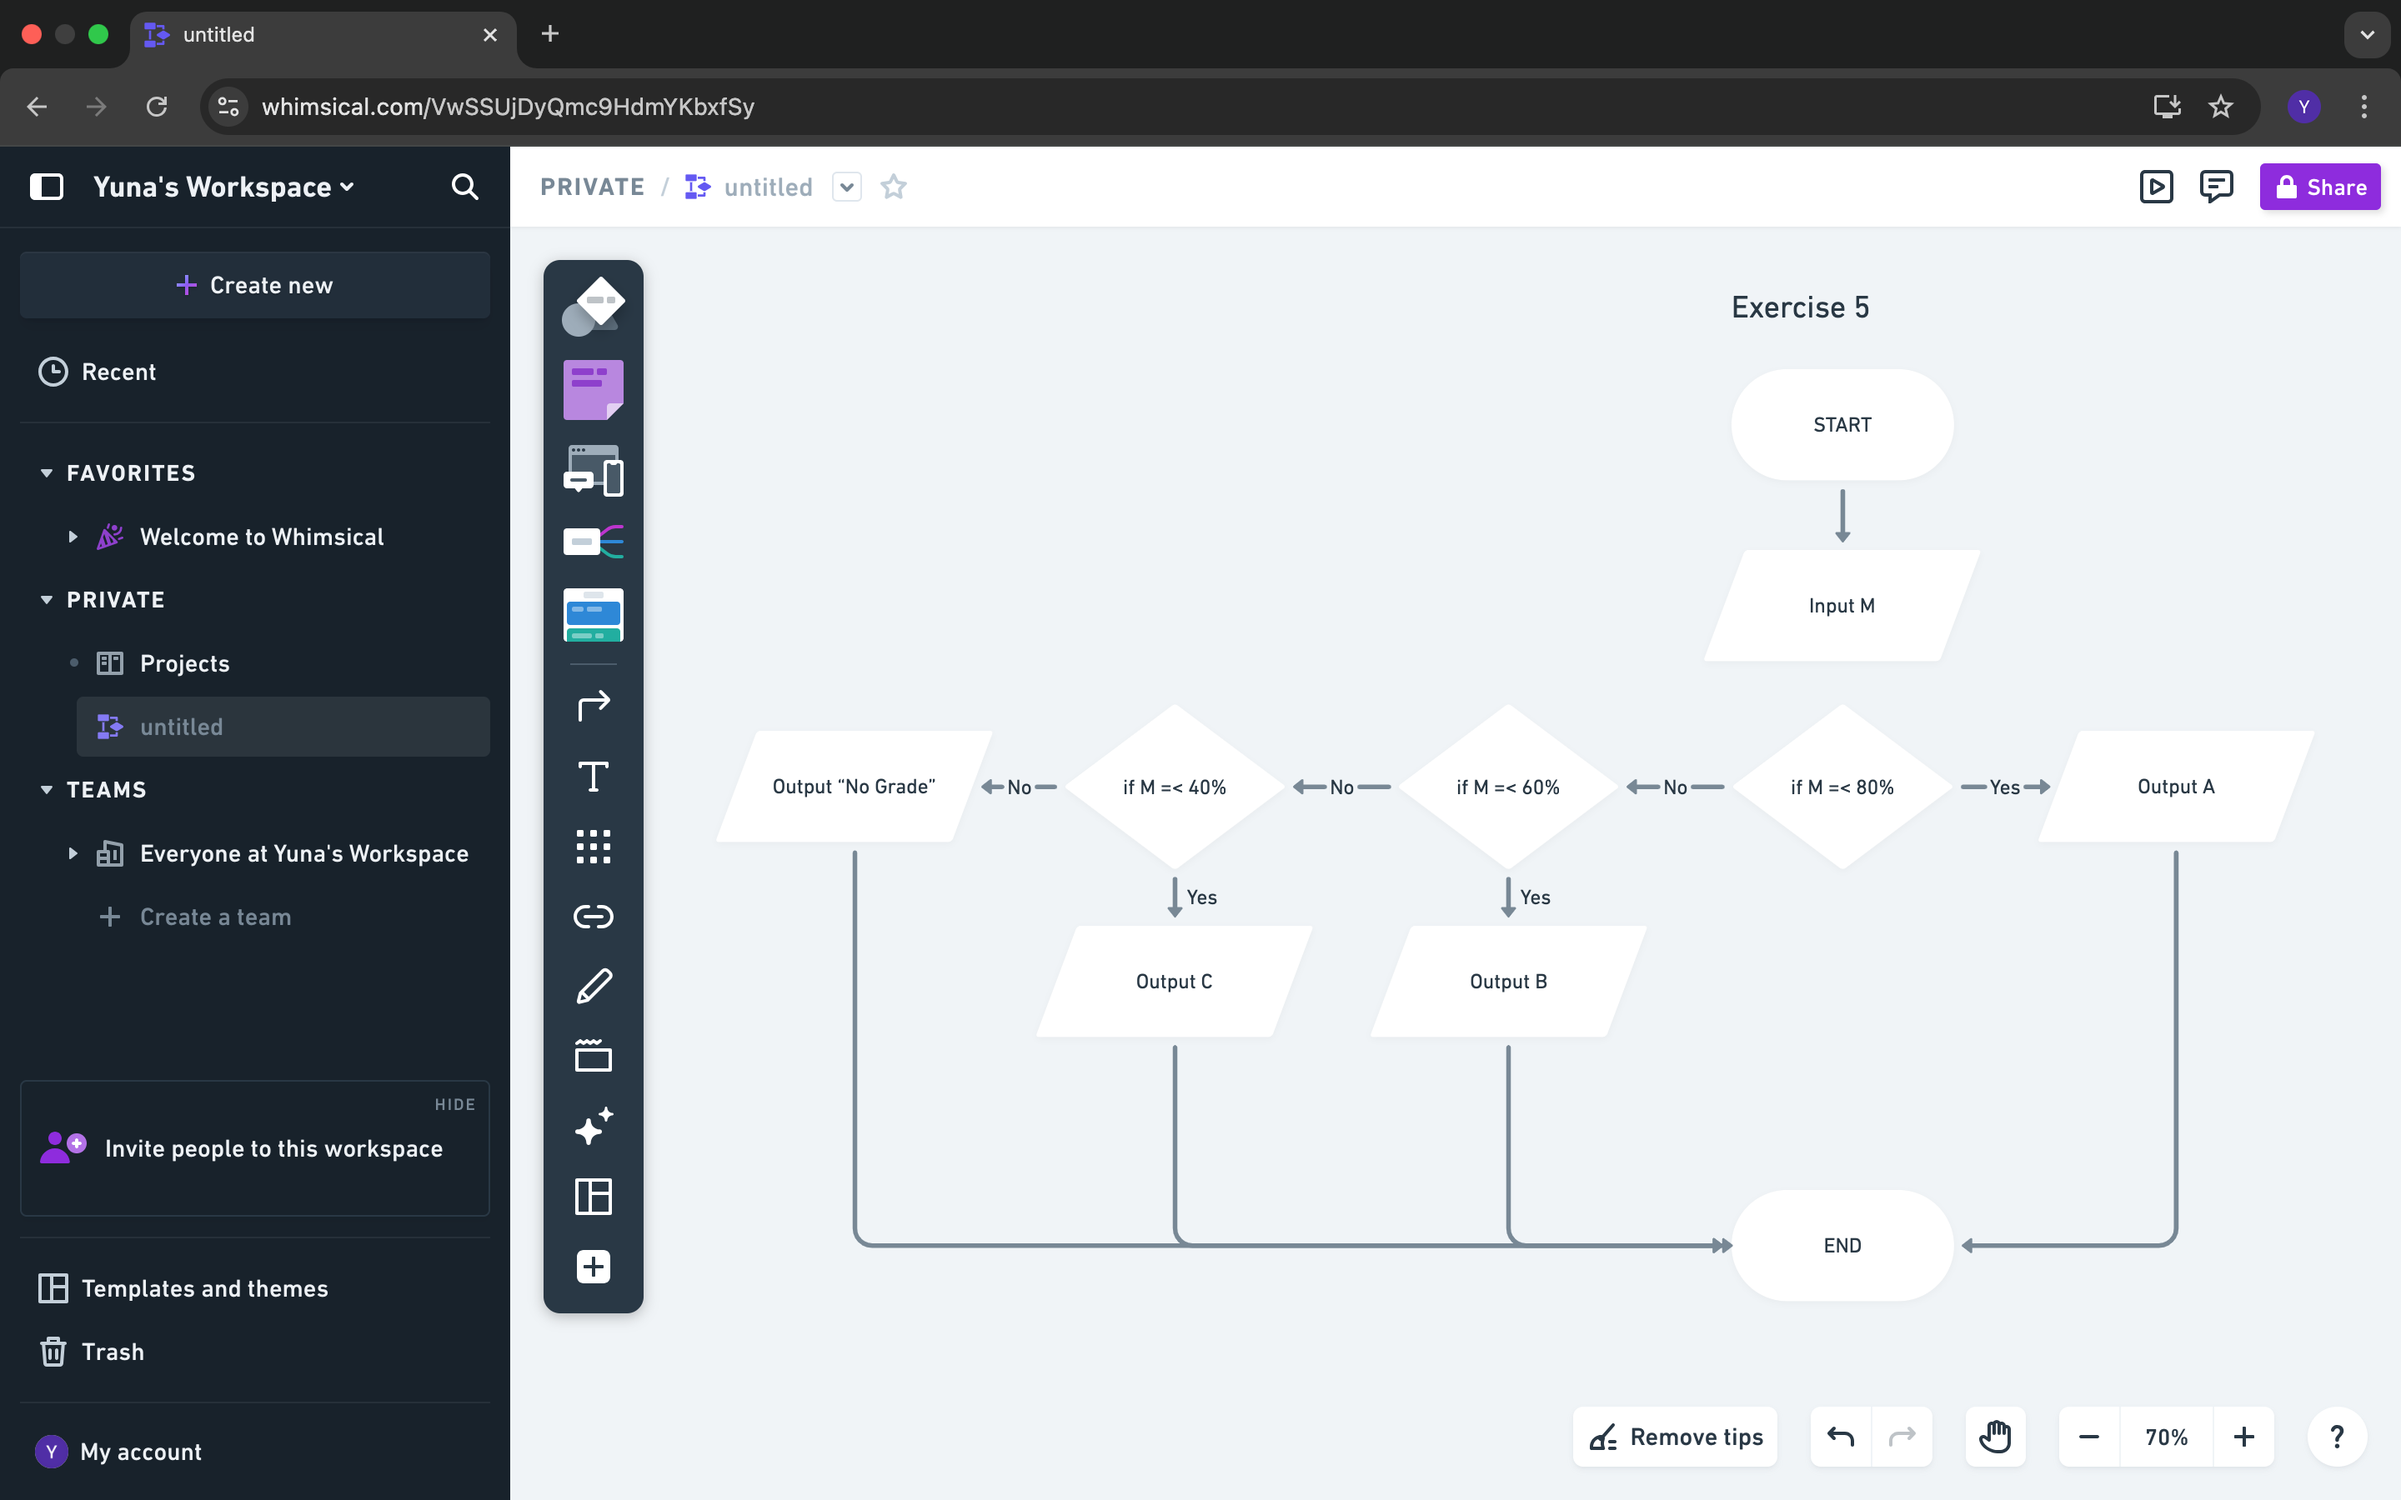
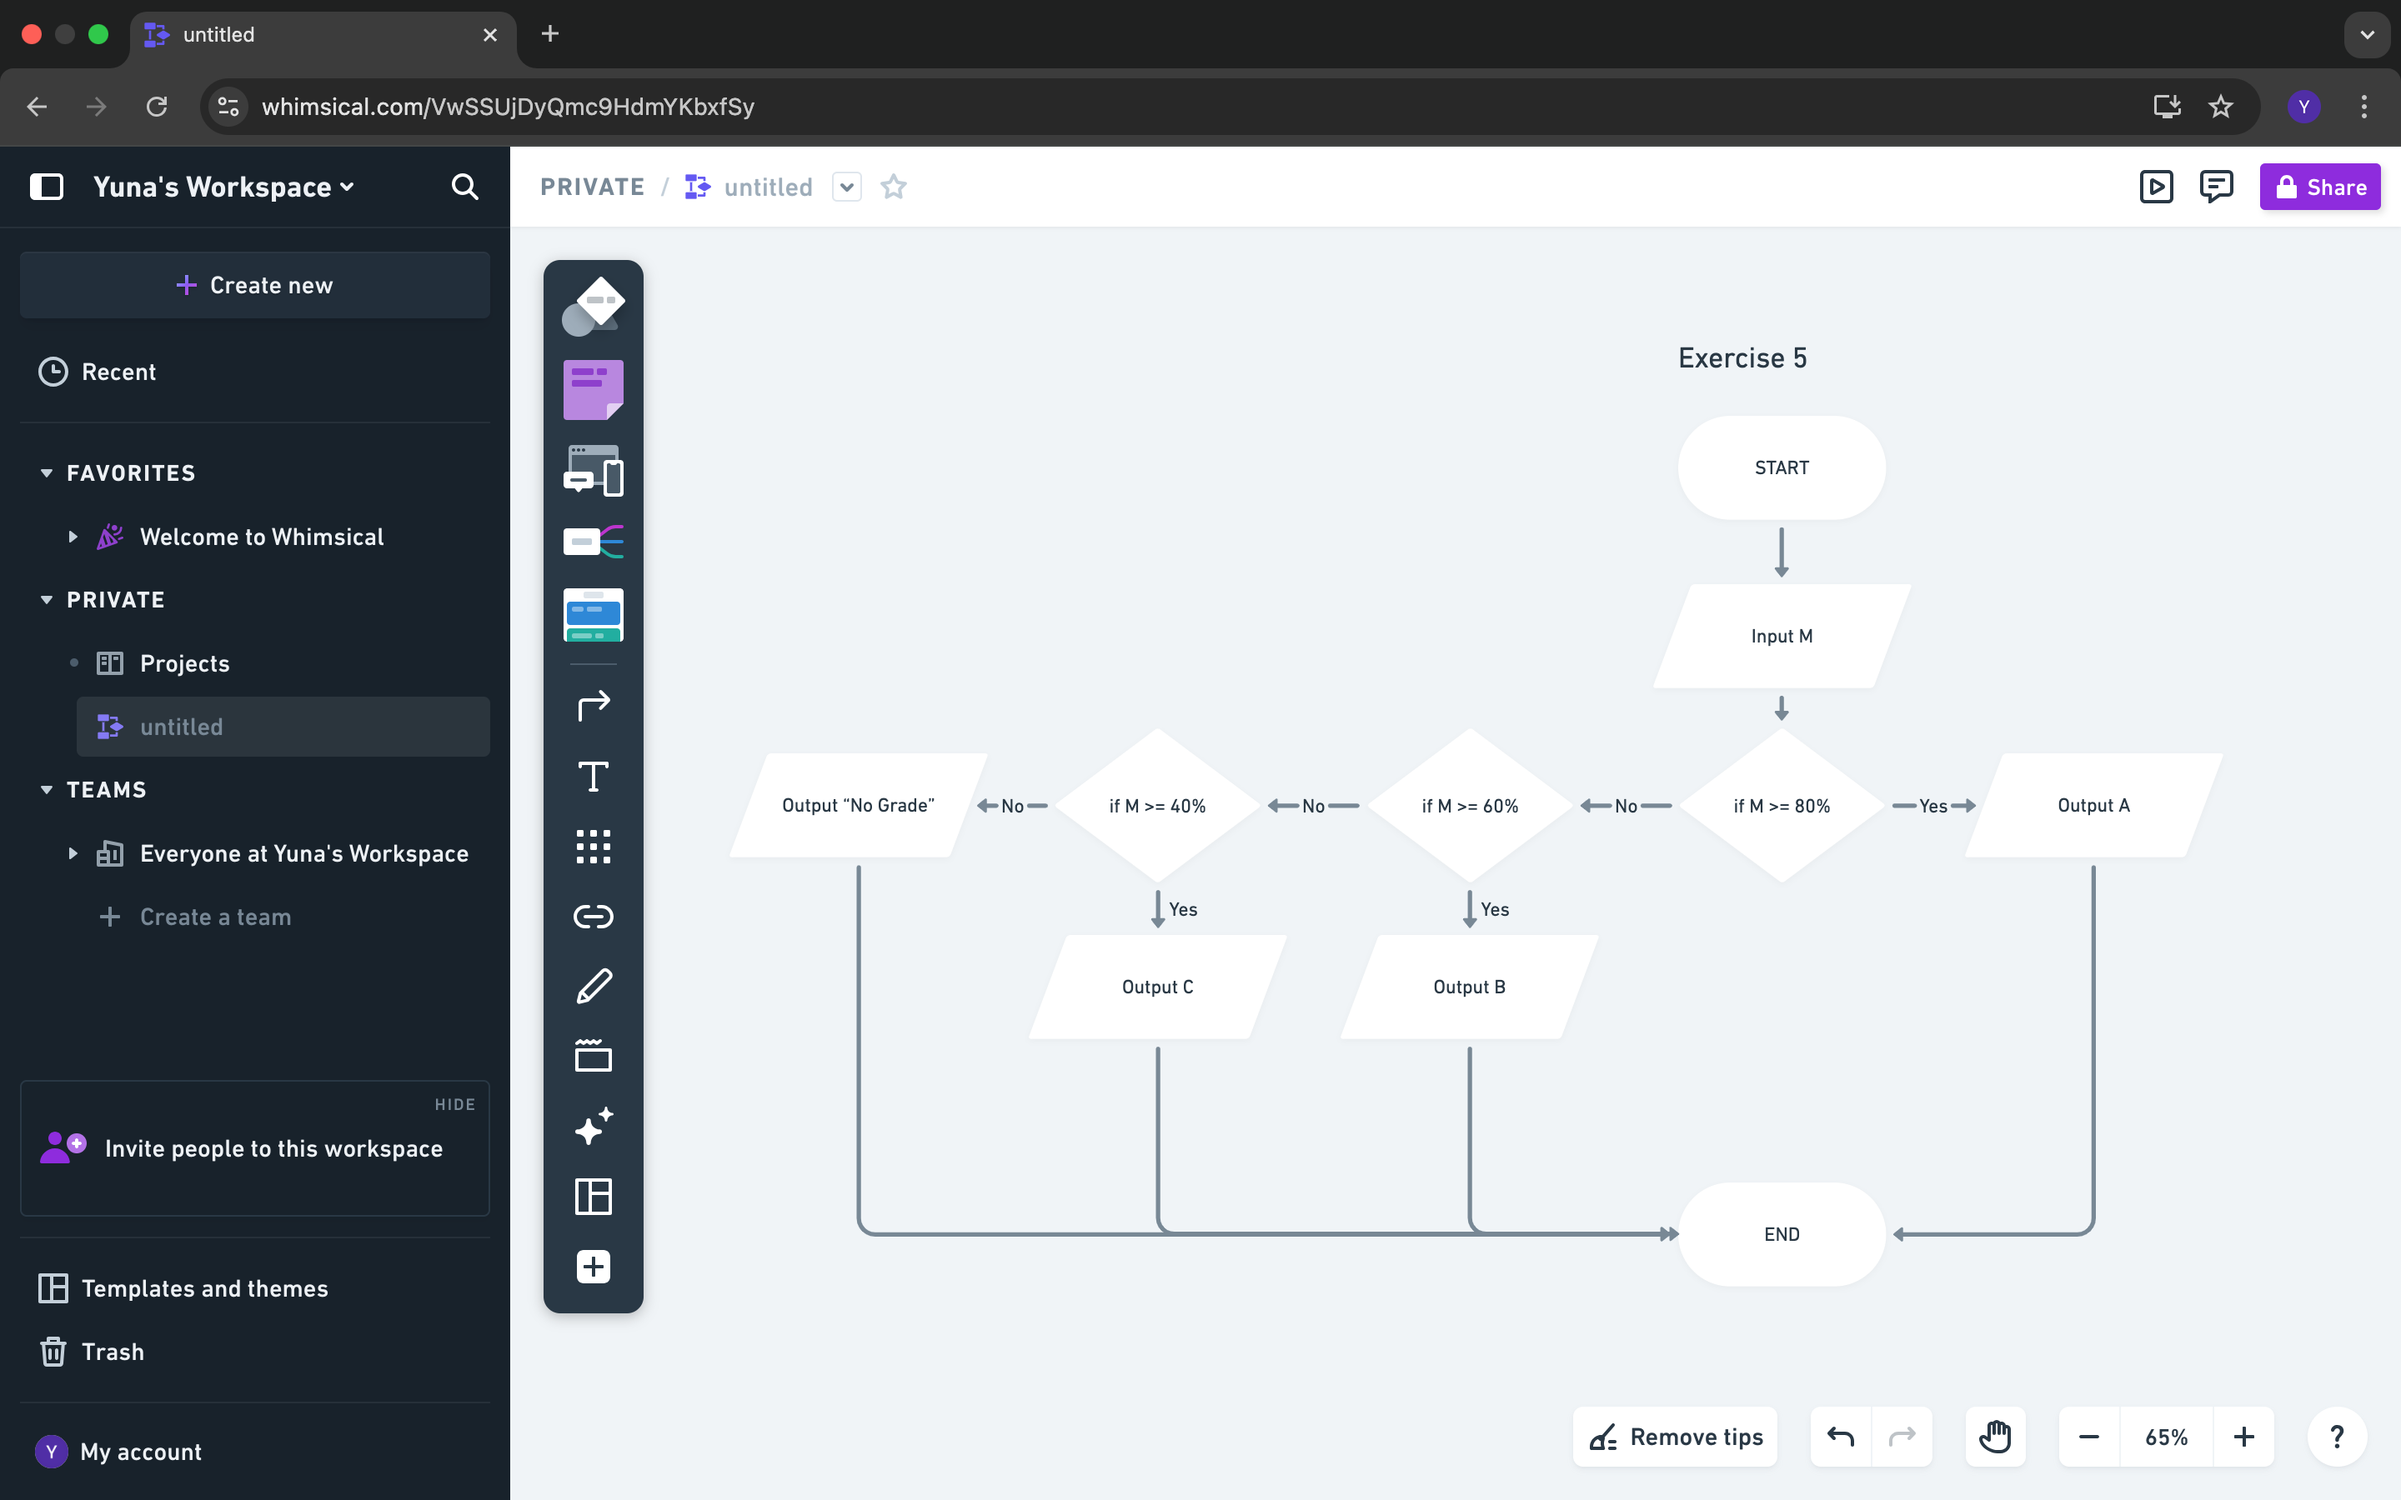
Done Js 5

diff --git a/js/index05.js b/js/index05.js
@@ -1,0 +1,12 @@
+let name = "Harry"
+let marks = 67
+
+if(marks >= 80){
+  console.log(`${name}'s grade is "A".`)
+} else if(marks >= 60){
+  console.log(`${name}'s grade is "B".`)
+} else if(marks >= 40){
+  console.log(`${name}'s grade is "C".`)
+} else {
+  console.log(`${name}'s grade is "No Grade".`)
+}
